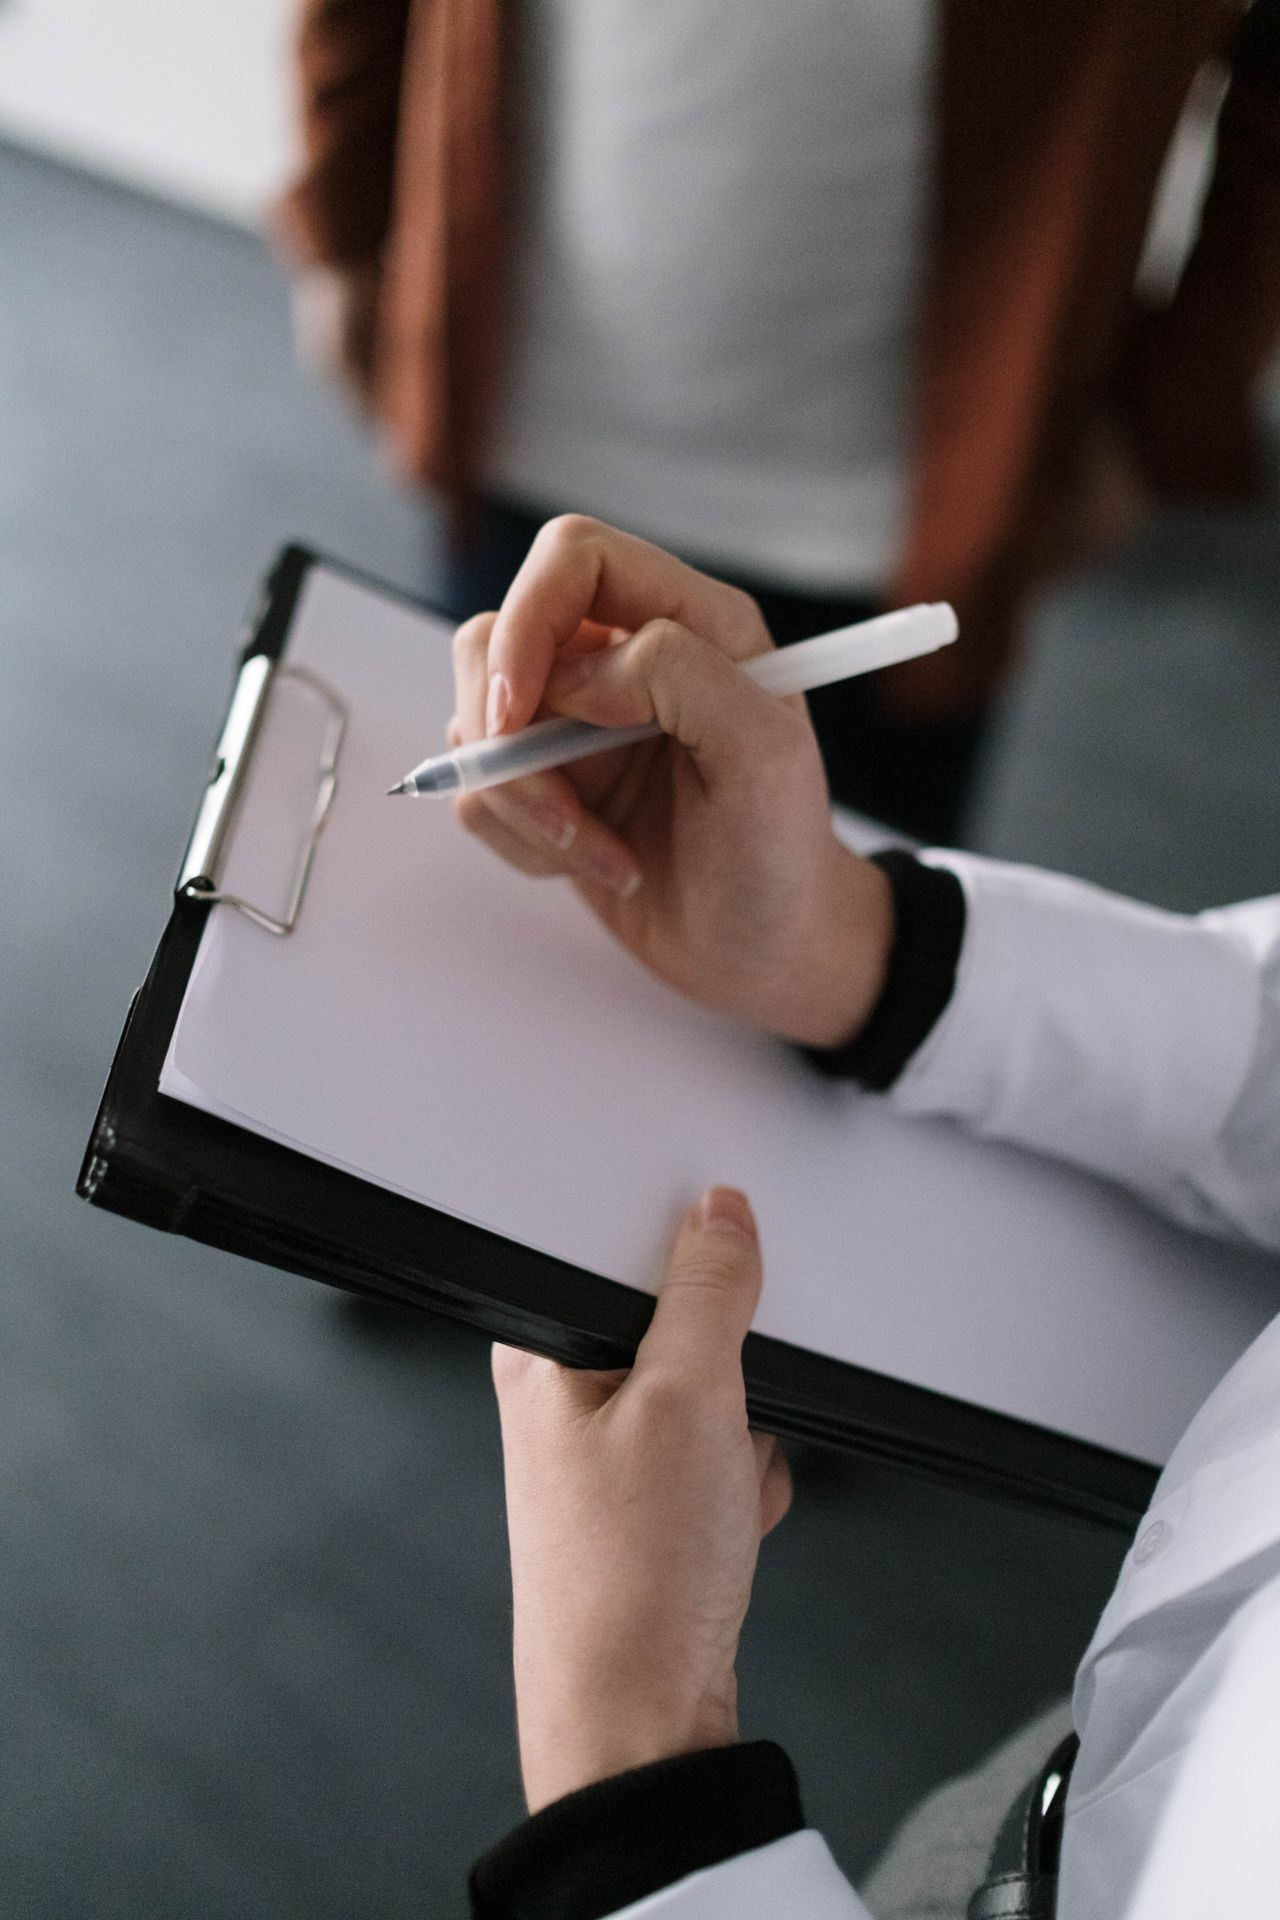
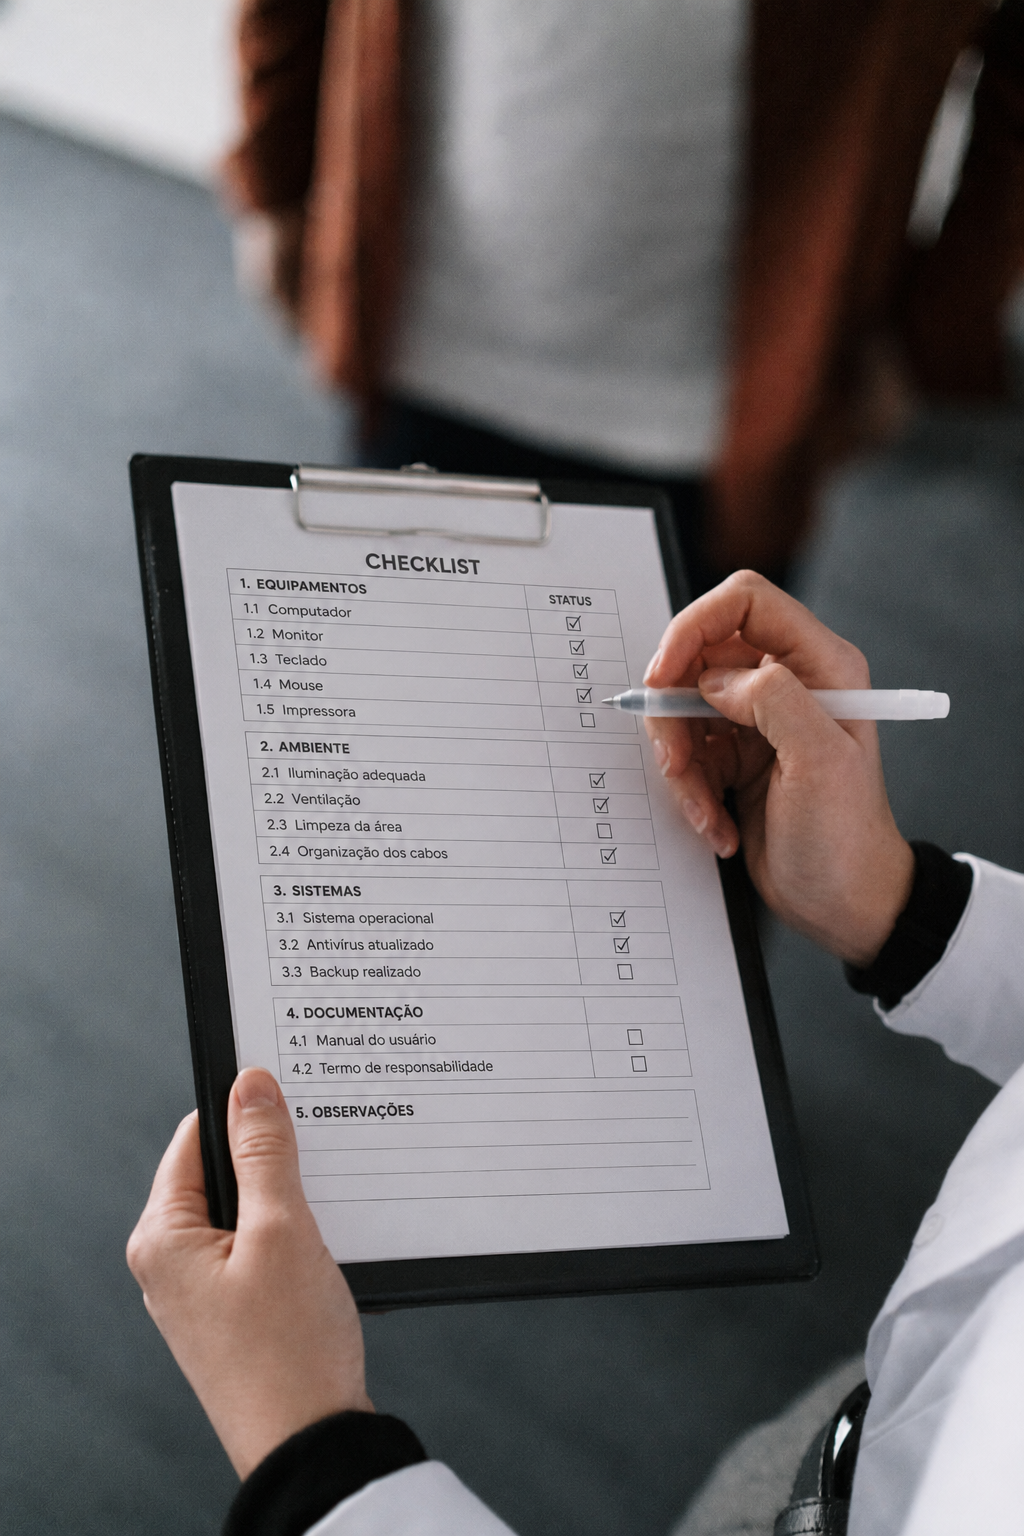
Mudanças imagens

diff --git a/index.html b/index.html
@@ -3,7 +3,7 @@
 <head>
     <meta charset="UTF-8">
     <meta name="viewport" content="width=device-width, initial-scale=1.0">
-    <title>login</title>
+    <title>Coleta/Entrega - Dados</title>
     <link rel="stylesheet" href="estilos/style.css">
 </head>
 <body>

diff --git a/estilos/style.css b/estilos/style.css
@@ -43,7 +43,7 @@ section#login > div#imagem {
     display: block;
     background: gray url(../imagens/coleta.jpg) no-repeat;
     background-size: cover;
-    background-position: right center;
+    background-position: center;
     height: 200px;
 }
 
